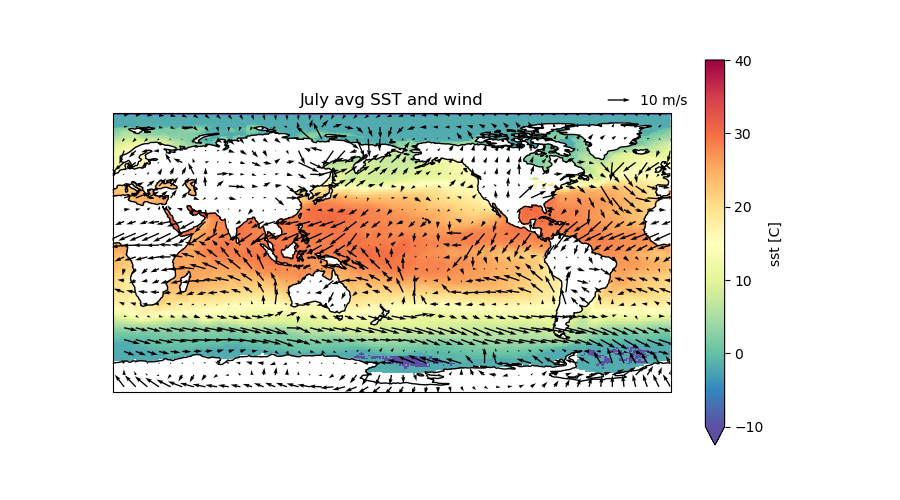
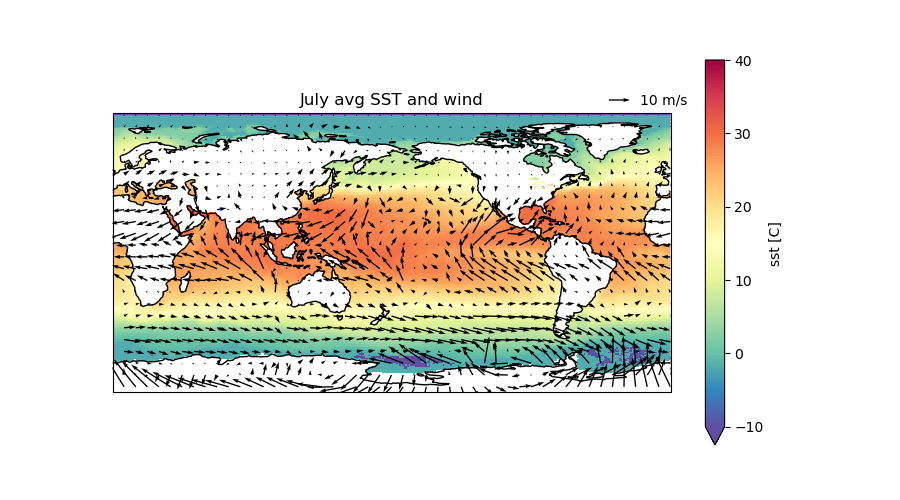
fix: months for wind

Changed region(s): [[0.1244, 0.24, 0.7467, 0.78]]

diff --git a/homework2/avg-wind.py b/homework2/avg-wind.py
@@ -31,7 +31,7 @@ def plot_avg_wind(month):
     ax1.coastlines()
 
     # and add wind vectors
-    q1=ax1.quiver(ds2.lon[::4], ds2.lat[::4], ds2.uwnd[0,0,::4,::4], ds3.vwnd[0,0,::4,::4]) # (lon,lat,u,v) 
+    q1=ax1.quiver(ds2.isel(time=month).lon[::4], ds2.isel(time=month).lat[::4], ds2.uwnd[month,0,::4,::4], ds3.vwnd[month,0,::4,::4]) # (lon,lat,u,v) 
     # arrows at every 4th points
 
     plt.quiverkey(q1, 0.70, 0.8, 10, '10 m/s', labelpos='E', coordinates='figure') # (Q,X,Y,U,label)
